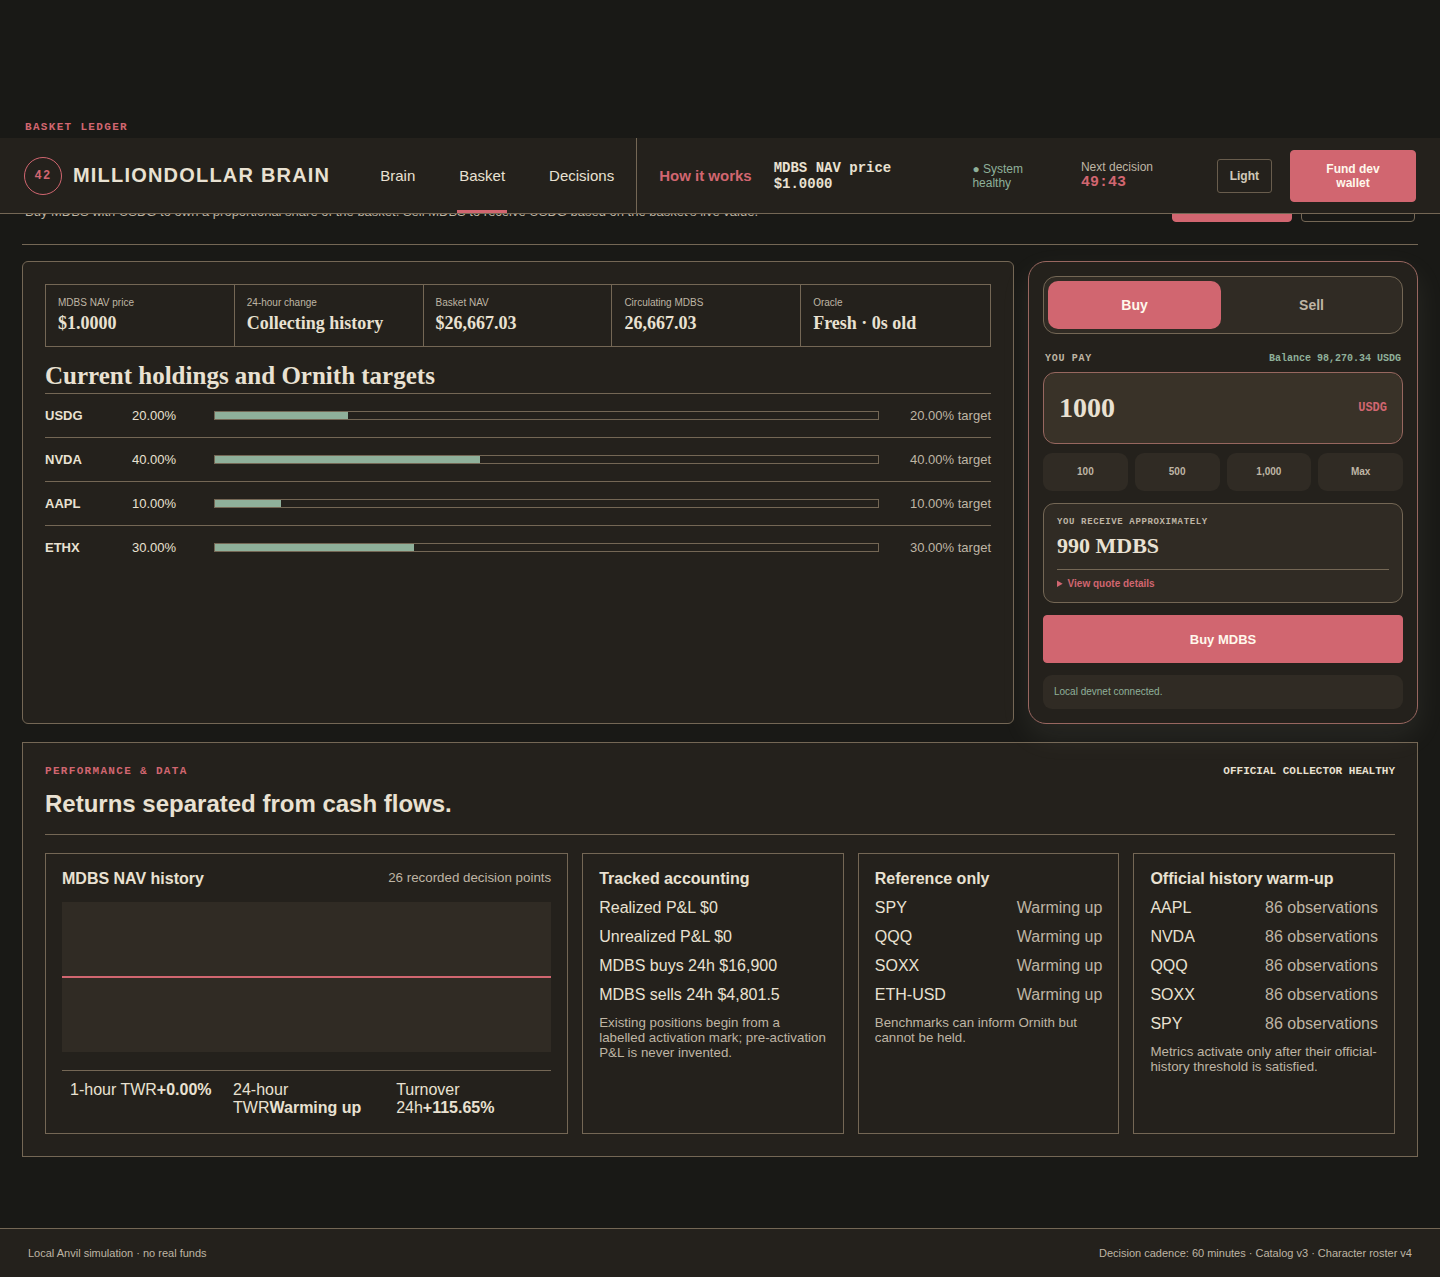
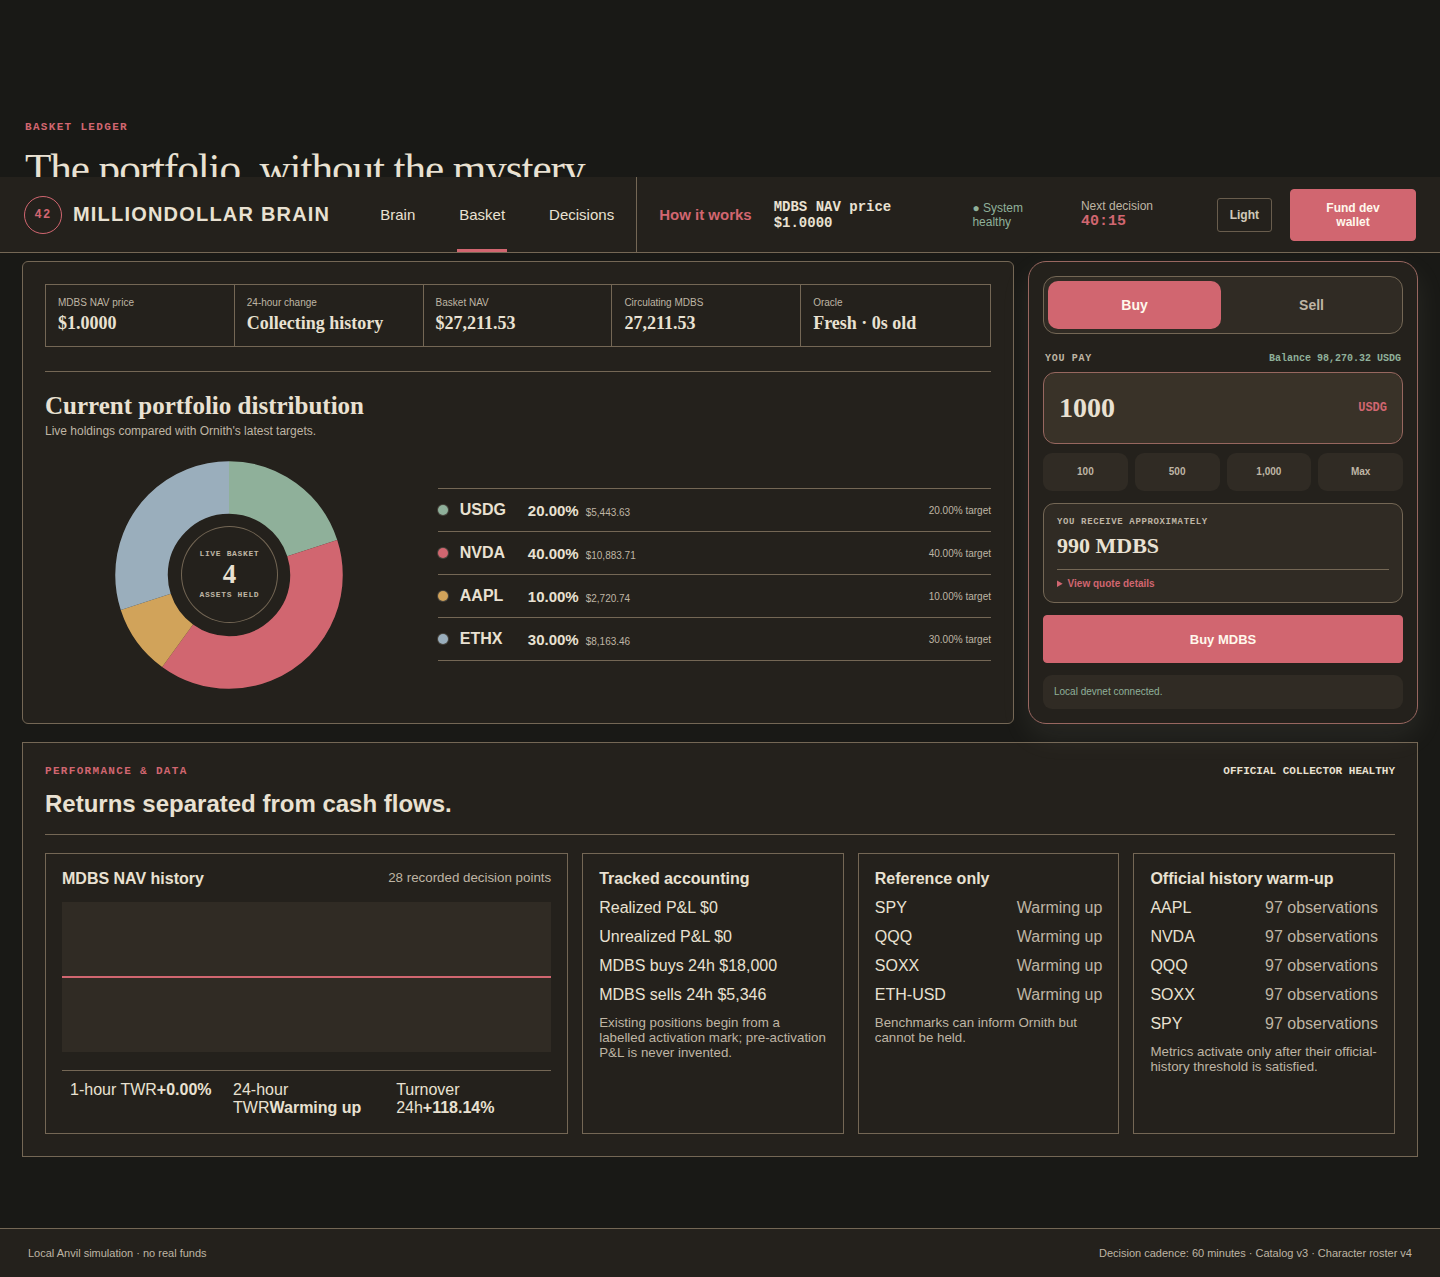
Show basket holdings as portfolio pie chart

diff --git a/apps/web/components/editorial-dashboard.tsx b/apps/web/components/editorial-dashboard.tsx
@@ -339,6 +339,19 @@ export function EditorialDashboard({
       (dependency) => data?.dataAvailability[dependency] === true,
     ) ?? false;
   const latestAllocation = data?.latestCycle?.allocation ?? { USDG: 10000 };
+  const holdingSlices = data
+    ? positiveBalanceSymbols(data.holdings).map((symbol) => {
+        const value = BigInt(data.holdingValues[symbol] ?? "0");
+        const nav = BigInt(data.nav);
+        return {
+          symbol,
+          value,
+          currentPercent:
+            nav > 0n ? Number((value * 1_000_000n) / nav) / 10_000 : 0,
+          targetPercent: (latestAllocation[symbol] ?? 0) / 100,
+        };
+      })
+    : [];
   const decisionHistory =
     data?.cycleHistory ?? (data?.latestCycle ? [data.latestCycle] : []);
   const selectedCycle =
@@ -750,29 +763,80 @@ export function EditorialDashboard({
                   }
                 />
               </div>
-              <h2>Current holdings and Ornith targets</h2>
-              <div className="holding-table">
-                {data &&
-                  positiveBalanceSymbols(data.holdings).map((symbol) => {
-                    const value = data.holdingValues[symbol] ?? "0";
-                    const current =
-                      (Number(value) / Math.max(1, Number(data.nav))) * 100;
-                    const target = (latestAllocation[symbol] ?? 0) / 100;
-                    return (
-                      <div
-                        key={symbol}
-                        data-testid="basket-holding-row"
-                        data-symbol={symbol}
-                      >
-                        <b>{symbol}</b>
-                        <span>{current.toFixed(2)}%</span>
-                        <i>
-                          <u style={{ width: `${current}%` }} />
-                        </i>
-                        <em>{target.toFixed(2)}% target</em>
-                      </div>
-                    );
-                  })}
+              <div className="holding-chart-heading">
+                <h2>Current portfolio distribution</h2>
+                <p>Live holdings compared with Ornith&apos;s latest targets.</p>
+              </div>
+              <div className="holding-distribution">
+                <figure className="holding-pie">
+                  <svg
+                    viewBox="0 0 200 200"
+                    role="img"
+                    aria-label={`Current portfolio distribution: ${holdingSlices
+                      .map(
+                        ({ symbol, currentPercent }) =>
+                          `${symbol} ${currentPercent.toFixed(2)}%`,
+                      )
+                      .join(", ")}`}
+                  >
+                    <circle
+                      className="holding-pie-track"
+                      cx="100"
+                      cy="100"
+                      r="70"
+                      pathLength="100"
+                    />
+                    {holdingSlices.map((slice, index) => {
+                      const offset = -holdingSlices
+                        .slice(0, index)
+                        .reduce((sum, item) => sum + item.currentPercent, 0);
+                      return (
+                        <circle
+                          key={slice.symbol}
+                          className="holding-pie-slice"
+                          cx="100"
+                          cy="100"
+                          r="70"
+                          pathLength="100"
+                          stroke={`var(--asset-${slice.symbol.toLowerCase()})`}
+                          strokeDasharray={`${slice.currentPercent} ${100 - slice.currentPercent}`}
+                          strokeDashoffset={offset}
+                        >
+                          <title>
+                            {slice.symbol}: {slice.currentPercent.toFixed(2)}%
+                          </title>
+                        </circle>
+                      );
+                    })}
+                  </svg>
+                  <figcaption>
+                    <span>LIVE BASKET</span>
+                    <strong>{holdingSlices.length}</strong>
+                    <small>assets held</small>
+                  </figcaption>
+                </figure>
+                <div className="holding-legend">
+                  {holdingSlices.map((slice) => (
+                    <div
+                      key={slice.symbol}
+                      data-testid="basket-holding-row"
+                      data-symbol={slice.symbol}
+                    >
+                      <i
+                        aria-hidden="true"
+                        style={{
+                          background: `var(--asset-${slice.symbol.toLowerCase()})`,
+                        }}
+                      />
+                      <b>{slice.symbol}</b>
+                      <span>
+                        <strong>{slice.currentPercent.toFixed(2)}%</strong>
+                        <small>${money(slice.value.toString())}</small>
+                      </span>
+                      <em>{slice.targetPercent.toFixed(2)}% target</em>
+                    </div>
+                  ))}
+                </div>
               </div>
             </article>
             <aside

diff --git a/apps/web/app/globals.css b/apps/web/app/globals.css
@@ -589,6 +589,10 @@ footer {
   --warning: #8a5a12;
   --negative: #8b2e2e;
   --info: #4f6777;
+  --asset-usdg: #315b49;
+  --asset-nvda: #7a2634;
+  --asset-aapl: #c18432;
+  --asset-ethx: #4f6777;
   min-height: 100vh;
   background: var(--background);
   color: var(--text);
@@ -613,6 +617,10 @@ footer {
   --warning: #d1a35a;
   --negative: #e07a7a;
   --info: #9aaebc;
+  --asset-usdg: #8fb09a;
+  --asset-nvda: #d16670;
+  --asset-aapl: #d1a35a;
+  --asset-ethx: #9aaebc;
 }
 .editorial-header {
   height: 76px;
@@ -1370,28 +1378,115 @@ footer {
 .transaction-card {
   padding: 22px;
 }
-.holding-table > div {
-  display: grid;
-  grid-template-columns: 75px 70px 1fr 100px;
-  gap: 12px;
-  align-items: center;
-  padding: 14px 0;
+.holding-chart-heading {
+  margin-top: 24px;
+  padding-top: 20px;
   border-top: 1px solid var(--border);
-  font-size: 13px;
 }
-.holding-table i {
-  height: 9px;
-  border: 1px solid var(--border);
+.holding-chart-heading h2,
+.holding-chart-heading p {
+  margin: 0;
 }
-.holding-table u {
-  height: 100%;
-  display: block;
-  background: var(--positive);
-  text-decoration: none;
-}
-.holding-table em {
-  font-style: normal;
+.holding-chart-heading p {
+  margin-top: 4px;
   color: var(--text-muted);
+  font-size: 12px;
+}
+.holding-distribution {
+  display: grid;
+  grid-template-columns: minmax(190px, 0.8fr) minmax(270px, 1.2fr);
+  align-items: center;
+  gap: 24px;
+  padding-top: 12px;
+}
+.holding-pie {
+  position: relative;
+  width: min(100%, 250px);
+  aspect-ratio: 1;
+  margin: 0 auto;
+}
+.holding-pie svg {
+  display: block;
+  width: 100%;
+  height: 100%;
+  overflow: visible;
+  transform: rotate(-90deg);
+}
+.holding-pie-track,
+.holding-pie-slice {
+  fill: none;
+  stroke-width: 42;
+}
+.holding-pie-track {
+  stroke: var(--surface-subtle);
+}
+.holding-pie-slice {
+  transition:
+    stroke-width 160ms ease,
+    opacity 160ms ease;
+}
+.holding-pie-slice:hover {
+  stroke-width: 48;
+}
+.holding-pie figcaption {
+  position: absolute;
+  inset: 31%;
+  display: grid;
+  place-content: center;
+  text-align: center;
+  border-radius: 50%;
+  background: var(--surface);
+  box-shadow: 0 0 0 1px var(--border);
+}
+.holding-pie figcaption span,
+.holding-pie figcaption small {
+  color: var(--text-muted);
+  font:
+    600 8px/1.25 "IBM Plex Mono",
+    "DM Mono",
+    monospace;
+  letter-spacing: 0.08em;
+  text-transform: uppercase;
+}
+.holding-pie figcaption strong {
+  margin: 2px 0;
+  font:
+    700 27px/1 "Source Serif 4",
+    "Playfair Display",
+    serif;
+}
+.holding-legend {
+  border-top: 1px solid var(--border);
+}
+.holding-legend > div {
+  display: grid;
+  grid-template-columns: 12px 58px minmax(90px, 1fr) auto;
+  gap: 10px;
+  align-items: center;
+  padding: 12px 0;
+  border-bottom: 1px solid var(--border);
+}
+.holding-legend > div > i {
+  width: 10px;
+  height: 10px;
+  border-radius: 50%;
+  box-shadow: 0 0 0 1px color-mix(in srgb, var(--text) 18%, transparent);
+}
+.holding-legend > div > span {
+  display: flex;
+  align-items: baseline;
+  gap: 7px;
+}
+.holding-legend strong {
+  font-size: 15px;
+}
+.holding-legend small,
+.holding-legend em {
+  color: var(--text-muted);
+  font-size: 10px;
+}
+.holding-legend em {
+  font-style: normal;
   text-align: right;
 }
 .transaction-card p {
@@ -2859,6 +2954,17 @@ footer {
   }
   .snapshot-actions {
     grid-template-columns: 1fr;
+  }
+  .holding-distribution {
+    grid-template-columns: 1fr;
+    gap: 12px;
+  }
+  .holding-pie {
+    width: min(78vw, 245px);
+  }
+  .holding-legend > div {
+    grid-template-columns: 12px 52px minmax(82px, 1fr) auto;
+    gap: 8px;
   }
   .page-title-row {
     align-items: flex-start;

diff --git a/MEMORY.md b/MEMORY.md
@@ -4,8 +4,8 @@ Durable project context lives here. Update this file whenever information should
 
 ## Active Handoff
 
-- Current task: Atomic-only MDBS sales are implemented and verified.
-- Last meaningful change: The live BasketVault proxy now liquidates every valid sale proportionally in one transaction or reverts completely. The web app exposes no queue state, and scheduled cycles no longer process redemptions.
+- Current task: Replace the Basket holdings bars with a clearer portfolio distribution chart.
+- Last meaningful change: Basket now leads with a responsive value-weighted donut chart and a textual legend showing each held asset's exact percentage, USD value, and latest Ornith target.
 - Next step: None for local devnet.
 - Blockers: None for local use. FRED macro inputs remain intentionally inactive until a free API key is configured. Real-value activation remains gated on counsel, production integrations and credentials, dependency advisory remediation, multisig/timelock migration, a professional audit, and Robinhood Chain release manifests.
 
@@ -115,6 +115,7 @@ When sources conflict, use this order:
[3 lines of base64/hex data omitted]
+- 2026-07-27: Replaced Basket's horizontal holdings bars with an accessible value-weighted donut chart. The chart includes only positively held assets and uses distinct light/dark palette slices; its adjacent legend preserves exact current weight, USD value, and latest Ornith target, and stacks below the chart on mobile. Prettier, production build, full Chromium economic/autonomous UAT, positive-only slice assertions, and live in-app-browser light/dark visual review pass.
 
 ## Decisions
 

diff --git a/UX_SCREENS.md b/UX_SCREENS.md
@@ -218,22 +218,19 @@ This combines the previous Portfolio and My Account screens.
 
 ### Holdings
 
-Use a sortable table on desktop and cards on mobile:
+Lead with an accessible donut chart showing the live USD-value distribution of
+the basket. Each positively held asset receives one visually distinct slice.
+A compact legend beside the chart shows the exact current percentage, USD value,
+and latest Ornith target. On mobile, the legend moves below the chart.
 
 The portfolio view lists only assets with a positive on-chain basket balance.
 Configured, approved, or previously held assets with a zero balance are omitted
-from the holdings table rather than shown as 0% positions.
+from the chart and legend rather than shown as 0% positions. The chart has a
+complete textual accessible label, and the legend ensures color is never the only
+way distribution is communicated.
 
-- Asset and verified-contract link.
-- Asset class and important tags.
 - Current and target weights.
-- Allowed allocation band.
 - USD value.
-- Price age and data health.
-- Return, volatility, liquidity, and risk tier.
-- Buy, sell, hold, paused, sell-only, or frozen state.
-
-Selecting an asset opens the Asset drawer.
 
 ### Your position
 

diff --git a/PRD.md b/PRD.md
@@ -642,7 +642,7 @@ Because all contracts are upgradeable, users depend on the upgrade administrator
 
 The public application must show:
 
-- Basket NAV, supply, holdings, reserve, and current weights.
+- Basket NAV, supply, reserve, and current holdings as an accessible value-weighted donut chart with a textual legend containing each held asset's exact current percentage, USD value, and latest AI target.
 - Contract-calculated `MDBS NAV price`, 24-hour change, oracle timestamp and freshness, circulating supply, and contract-backed entry/redemption previews.
 - User-facing basket actions are always labelled `Buy MDBS`, `Sell MDBS`, and `Claim rewards`. Deposit, mint, redeem, and burn remain contract and accounting terms only, not primary wallet action labels.
 - Basket trading uses one compact launchpad-style Buy/Sell panel with wallet balance, custom amount, quick presets, an approximate receive quote, one primary action, and collapsed contract-backed details. Buy presets are fixed USDG amounts plus Max; sell presets are 25%, 50%, 75%, and Max.
